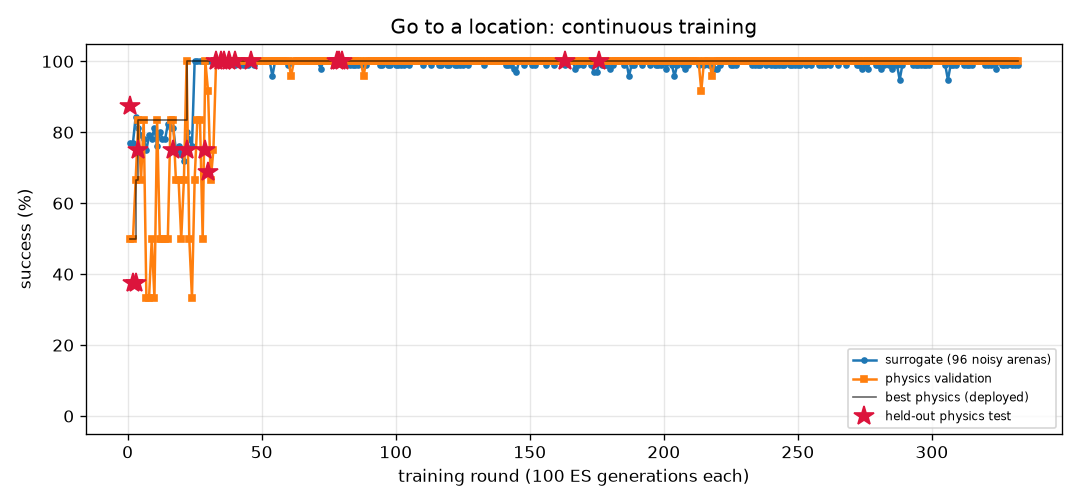
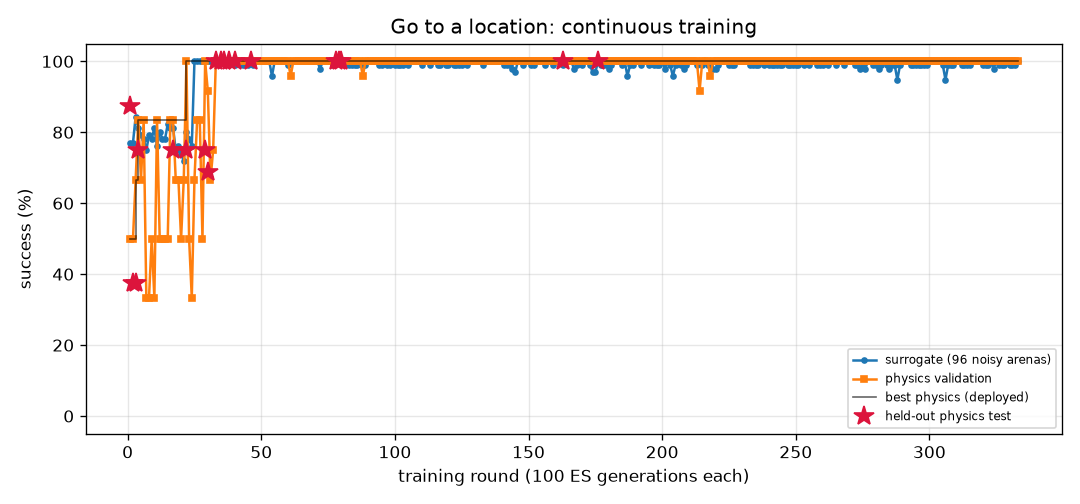
FlyLab: daily snapshot 2026-11-19
Daily entry in projects/09_flylab/training/daily/2026-11.md, plus 5 uncommitted training output file(s).

diff --git a/projects/09_flylab/training/goto/REPORT.md b/projects/09_flylab/training/goto/REPORT.md
@@ -1,14 +1,14 @@
 # Go to a location (`goto`) — training report
 
-*Auto-generated by `train_brains.py`, last updated 2026-11-19T01:03:04.*
+*Auto-generated by `train_brains.py`, last updated 2026-11-19T01:27:00.*
 
 ![curve](curve.png)
 
 | | |
 |---|---|
-| rounds | 332 |
-| ES generations | 33200 |
-| physics runs | 7918 |
+| rounds | 333 |
+| ES generations | 33300 |
+| physics runs | 7942 |
 | status | **optimal** |
 | best brain | round 176: physics validation **100%** on 24 arenas, surrogate 100% |
 | held-out physics test | **100%** on 32 unseen arenas (95% CI 89%-100%) (errors: [0.2, 0.32, 0.19, 0.24, 0.18, 0.2, 0.19, 0.17, 0.22, 0.23, 0.23, 0.26, 0.2, 0.19, 0.24, 0.23, 0.22, 0.24, 0.2, 0.22, 0.2, 0.2, 0.26, 0.19, 0.22, 0.18, 0.26, 0.22, 0.2, 0.26, 0.23, 0.23]) |
@@ -17,7 +17,6 @@ Physics error per arena: mm from target at the end (< 1.5 and standing still = s
 
 | round | level | gens | sigma | surrogate | physics val | val errors | test | note |
 |---:|---:|---:|---:|---:|---:|---|---:|---|
-| 293 | 3 | 29300 | 0.024 | 99% | 100% | [0.48, 0.44, 0.3, 0.34, 0.32, 0.33, 0.44, 0.38, 0.4, 0.33, 0.3, 0.34, 0.42, 0.34, 0.37, 0.41, 0.5, 0.4, 0.31, 0.41, 0.37, 0.33, 0.47, 0.34] |  |  |
 | 294 | 3 | 29400 | 0.025 | 99% | 100% | [0.69, 0.65, 0.69, 0.56, 0.51, 0.54, 0.68, 0.62, 0.62, 0.53, 0.51, 0.54, 0.63, 0.53, 0.57, 0.62, 0.65, 0.53, 0.5, 0.61, 0.57, 0.55, 0.68, 0.55] |  |  |
 | 295 | 3 | 29500 | 0.025 | 99% | 100% | [0.61, 0.61, 0.45, 0.45, 0.46, 0.45, 0.57, 0.5, 0.5, 0.44, 0.43, 0.46, 0.55, 0.47, 0.51, 0.54, 0.6, 0.52, 0.43, 0.52, 0.53, 0.44, 0.56, 0.45] |  |  |
 | 296 | 3 | 29600 | 0.025 | 99% | 100% | [0.37, 0.43, 0.41, 0.27, 0.31, 0.3, 0.37, 0.34, 0.29, 0.26, 0.27, 0.27, 0.32, 0.31, 0.4, 0.41, 0.33, 0.28, 0.26, 0.29, 0.38, 0.25, 0.34, 0.26] |  | restart from best |
@@ -57,3 +56,4 @@ Physics error per arena: mm from target at the end (< 1.5 and standing still = s
 | 330 | 3 | 33000 | 0.024 | 99% | 100% | [0.33, 0.33, 0.36, 0.33, 0.25, 0.3, 0.33, 0.35, 0.36, 0.27, 0.27, 0.32, 0.34, 0.28, 0.31, 0.27, 0.36, 0.29, 0.25, 0.34, 0.26, 0.28, 0.36, 0.32] |  |  |
 | 331 | 3 | 33100 | 0.025 | 99% | 100% | [0.29, 0.31, 0.32, 0.33, 0.3, 0.33, 0.31, 0.36, 0.35, 0.29, 0.28, 0.31, 0.33, 0.3, 0.29, 0.34, 0.32, 0.34, 0.3, 0.36, 0.36, 0.28, 0.31, 0.32] |  |  |
 | 332 | 3 | 33200 | 0.025 | 99% | 100% | [0.67, 0.63, 0.57, 0.61, 0.53, 0.56, 0.67, 0.59, 0.63, 0.55, 0.54, 0.59, 0.68, 0.5, 0.61, 0.62, 0.71, 0.58, 0.56, 0.68, 0.59, 0.62, 0.68, 0.61] |  | restart from best |
+| 333 | 3 | 33300 | 0.024 | 100% | 100% | [0.46, 0.45, 0.4, 0.45, 0.36, 0.42, 0.43, 0.43, 0.45, 0.37, 0.36, 0.43, 0.45, 0.4, 0.38, 0.44, 0.46, 0.43, 0.36, 0.46, 0.42, 0.38, 0.47, 0.44] |  |  |

diff --git a/projects/09_flylab/training/TRAINING.md b/projects/09_flylab/training/TRAINING.md
@@ -1,6 +1,6 @@
 # FlyLab brains — continuous training log
 
-*Auto-generated by `train_brains.py`, last updated 2026-11-19T01:19:27.*
+*Auto-generated by `train_brains.py`, last updated 2026-11-19T01:27:00.*
 
 Every skill has its own brain and its own training process: surrogate ES rounds, physics validation in MuJoCo, keep-the-best selection, and a held-out physics test that is never used for selection. See each skill's report for its full round-by-round history. Mastery is progressive: passing a level (100% physics validation, >=95% surrogate) doubles the validation and test arena sets; a brain is **optimal** once it holds up at level 3 (>=95% of 24 validation arenas) AND scores >=90% on the 32 held-out test arenas. Test columns show 95% Wilson confidence intervals.
 
@@ -8,7 +8,7 @@ Every skill has its own brain and its own training process: surrogate ES rounds,
 |---|---:|---:|---:|---:|---:|---:|---|
 | [Walk forward](walk_forward/REPORT.md) | 434 | 43400 | 10430 | 100% | 100% of 24 | 100% of 32 (CI 89-100%) | **optimal** |
 | [Turn in place](turn/REPORT.md) | 1151 | 115100 | 27870 | 100% | 100% of 24 | 97% of 32 (CI 84-99%) | **optimal** |
-| [Go to a location](goto/REPORT.md) | 332 | 33200 | 7918 | 100% | 100% of 24 | 100% of 32 (CI 89-100%) | **optimal** |
+| [Go to a location](goto/REPORT.md) | 333 | 33300 | 7942 | 100% | 100% of 24 | 100% of 32 (CI 89-100%) | **optimal** |
 | [Find food by smell](odor_seek/REPORT.md) | 269 | 26900 | 5950 | 100% | 100% of 24 | 100% of 32 (CI 89-100%) | **optimal** |
 | [Escape a bad smell](odor_avoid/REPORT.md) | 994 | 99400 | 21162 | 97% | 100% of 24 | 97% of 32 (CI 84-99%) | **optimal** |
 | [Walk toward light](light_seek/REPORT.md) | 535 | 53500 | 9720 | 100% | 100% of 24 | 100% of 32 (CI 89-100%) | **optimal** |

diff --git a/projects/09_flylab/training/daily/2026-11.md b/projects/09_flylab/training/daily/2026-11.md
@@ -166,3 +166,18 @@ Written by daily_commit.py once a day.
 
 - training supervisor: running
 - commits in the last 24 h: 9 (latest `076906d 03:12 FlyLab: continuous training progress`)
+
+## 2026-11-19 (Thu)
+
+| brain | state | level | physics val | test | round |
+|---|---|---|---|---|---|
+| walk_forward | optimal | 3 | 100% of 24 | 100% | 434 |
+| turn | optimal | 3 | 100% of 24 | 97% | 1151 |
+| goto | optimal | 3 | 100% of 24 | 100% | 333 |
+| odor_seek | optimal | 3 | 100% of 24 | 100% | 269 |
+| odor_avoid | optimal | 3 | 100% of 24 | 97% | 994 |
+| light_seek | optimal | 3 | 100% of 24 | 100% | 535 |
+| light_avoid | optimal | 3 | 100% of 24 | 100% | 711 |
+
+- training supervisor: running
+- commits in the last 24 h: 18 (latest `8f4f664 01:19 FlyLab: continuous training progress`)
